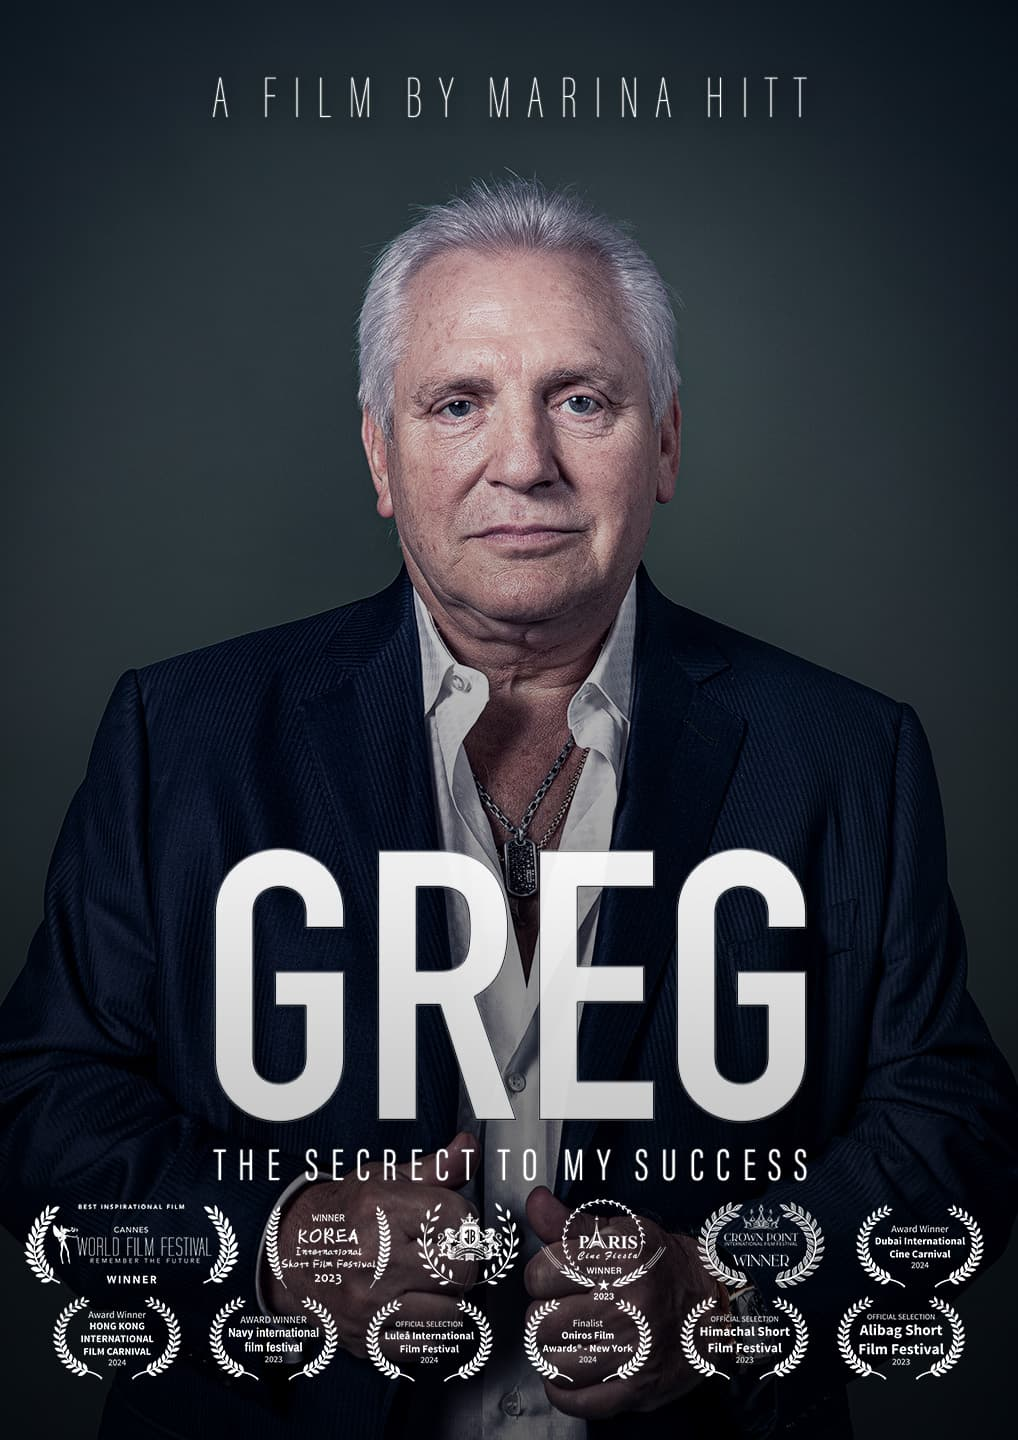
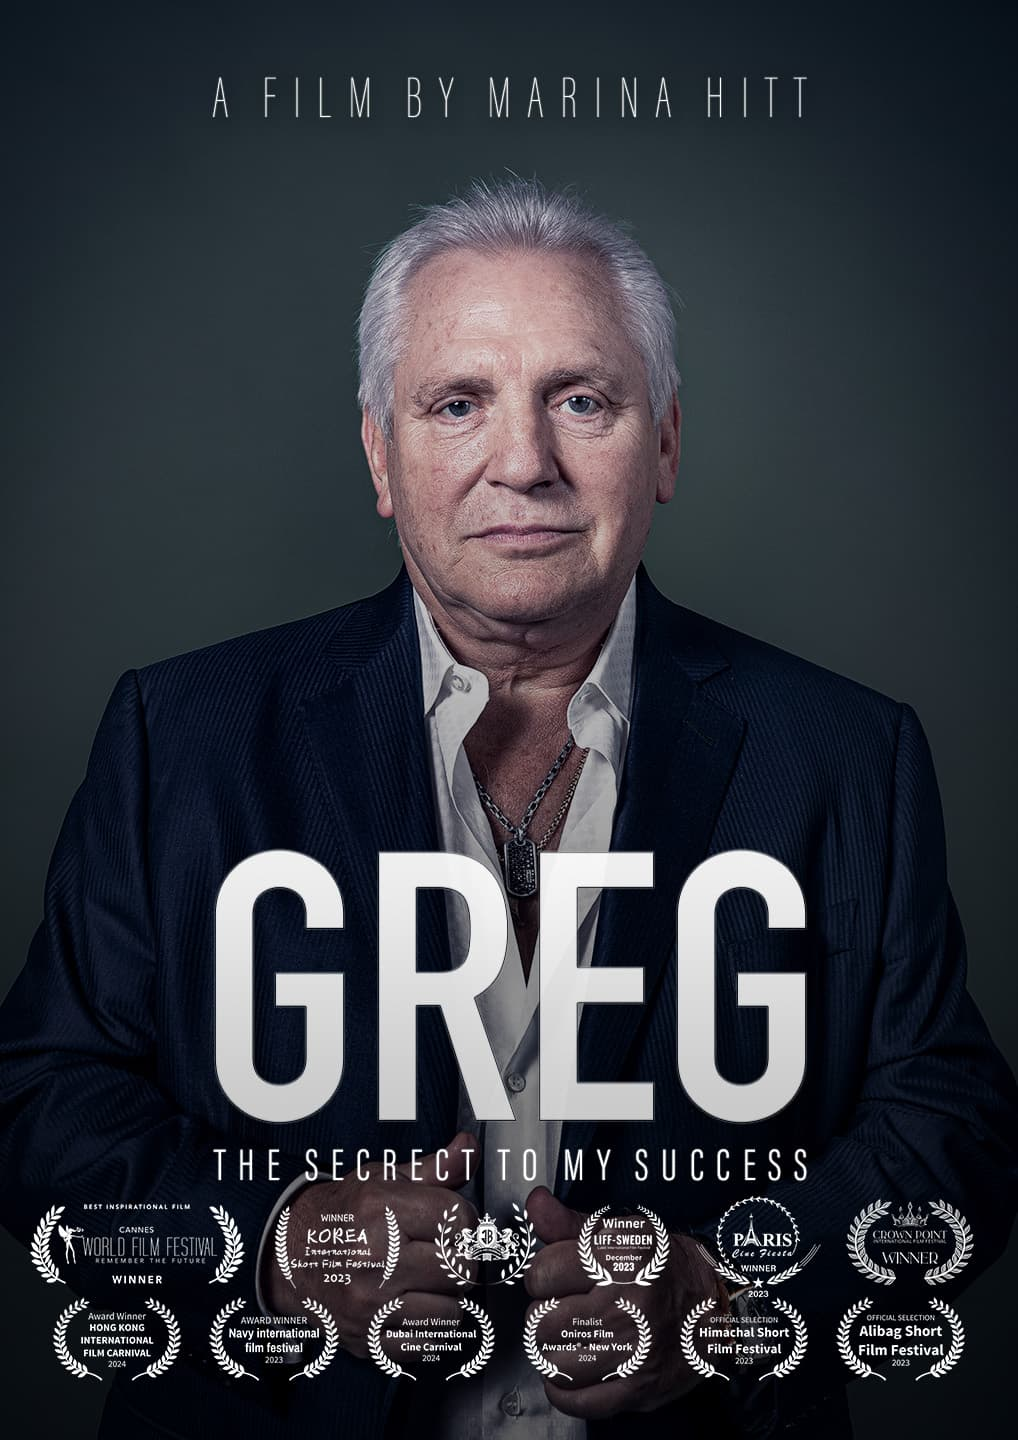
fix: add sweden festival winner

diff --git a/.prettierrc.js b/.prettierrc.js
@@ -4,7 +4,7 @@ module.exports = {
   semi: true,
   singleQuote: true,
   tabWidth: 2,
-  trailingComma: 'es5',
+  trailingComma: 'none',
   useTabs: false,
 
   plugins: [require.resolve('prettier-plugin-astro')],
